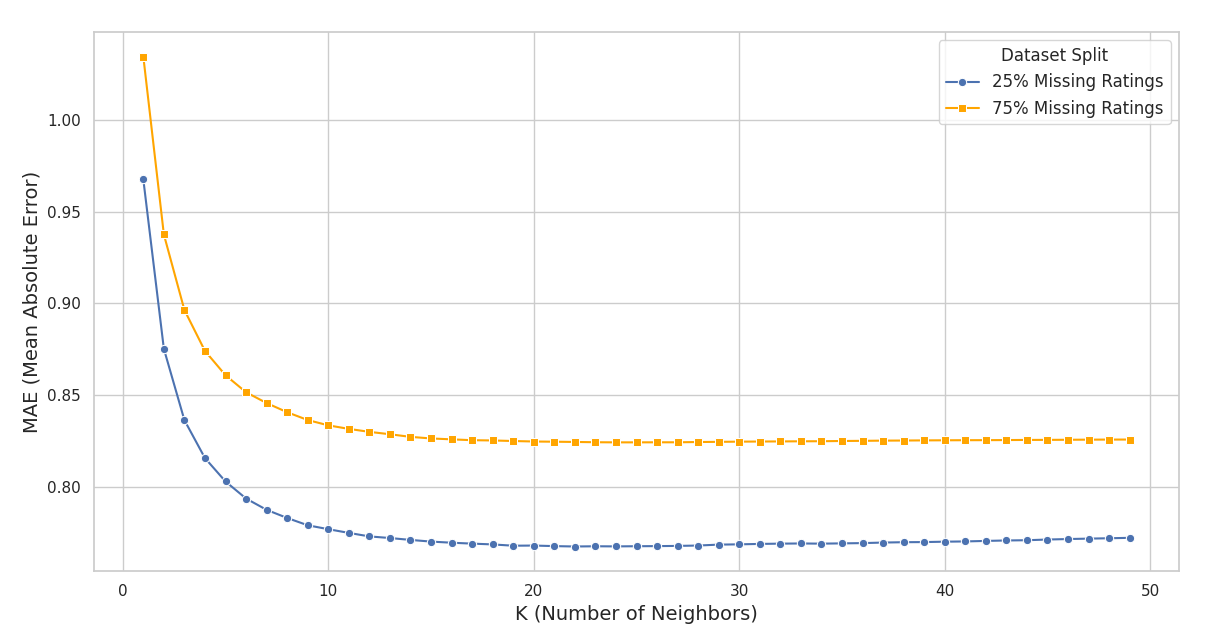
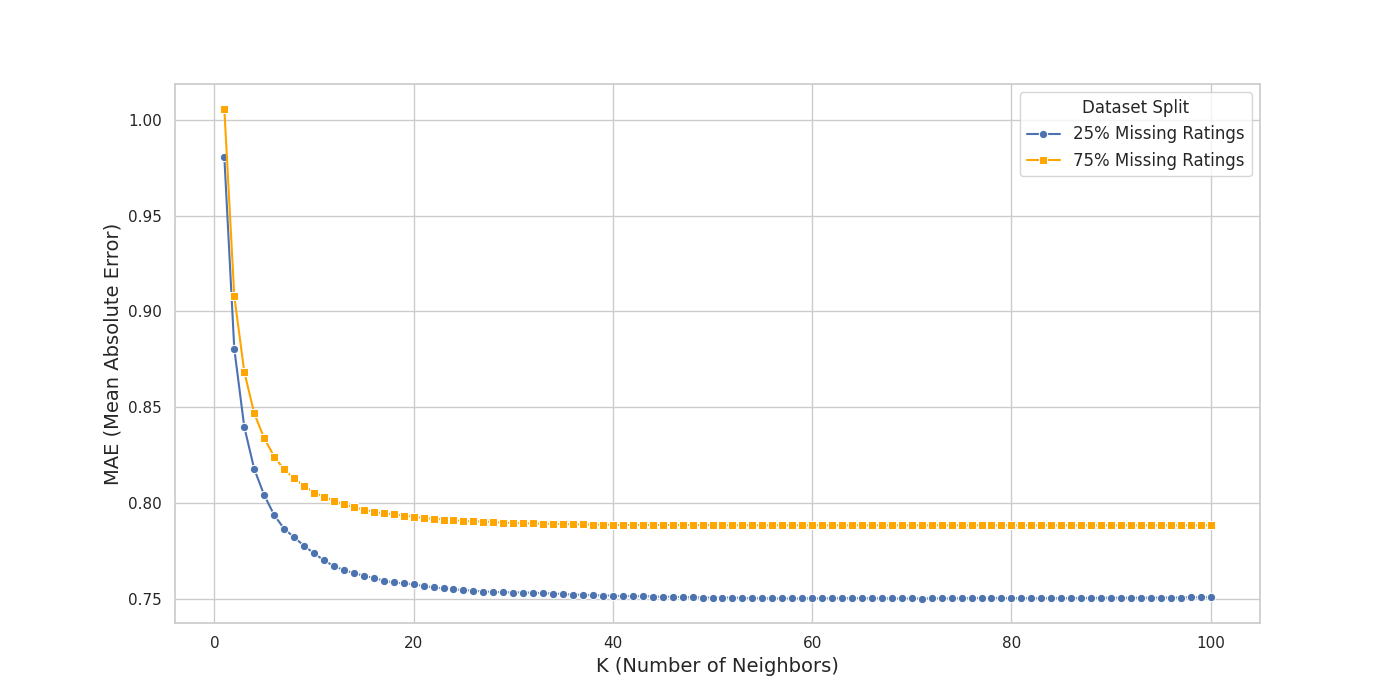
Update the readme

diff --git a/README.md b/README.md
@@ -56,8 +56,8 @@ The MAE is consistently lower for the 25% missing ratings case across all K valu
 
 For both sparsity levels, the MAE decreases as K increases, reaching a minimum before leveling off. For this dataset the optimal K values are:
 
-- 25% missing ratings: 22 with MAE equal to 0.779.
-- 75% missing ratings: 24 with MAE equal to 0.822.
+- 25% missing ratings: 58 with MAE equal to 0.7504.
+- 75% missing ratings: 55 with MAE equal to 0.7885.
 
 ## Task 2
 
@@ -92,11 +92,6 @@ In both cases, 25% and 75% missing ratings, Funk SVD outperforms K-NN. This sugg
 ---
 
 As N increases, precision decreases while recall remains high. With higher N, the model recommends more items, which increases recall (capturing more relevant items) but reduces precision (introducing more irrelevant items). For both 25% and 75% missing ratings, recall stays high, indicating that relevant items are mostly retrieved, while precision drops with larger N. The F1 score reflects this trade-off, peaking at smaller N and decreasing as N grows, particularly under higher sparsity. Both K-NN and SVD models show similar performance, suggesting that their predictive capabilities are comparable in this scenario.
-
-Best K for K-NN model:
-
-- 25% missing ratings: 45 with F1 Score equal to 0.426.
-- 75% missing ratings: 50 with F1 Score: equal to 0.538.
 
 <br>
 <div align="center">
